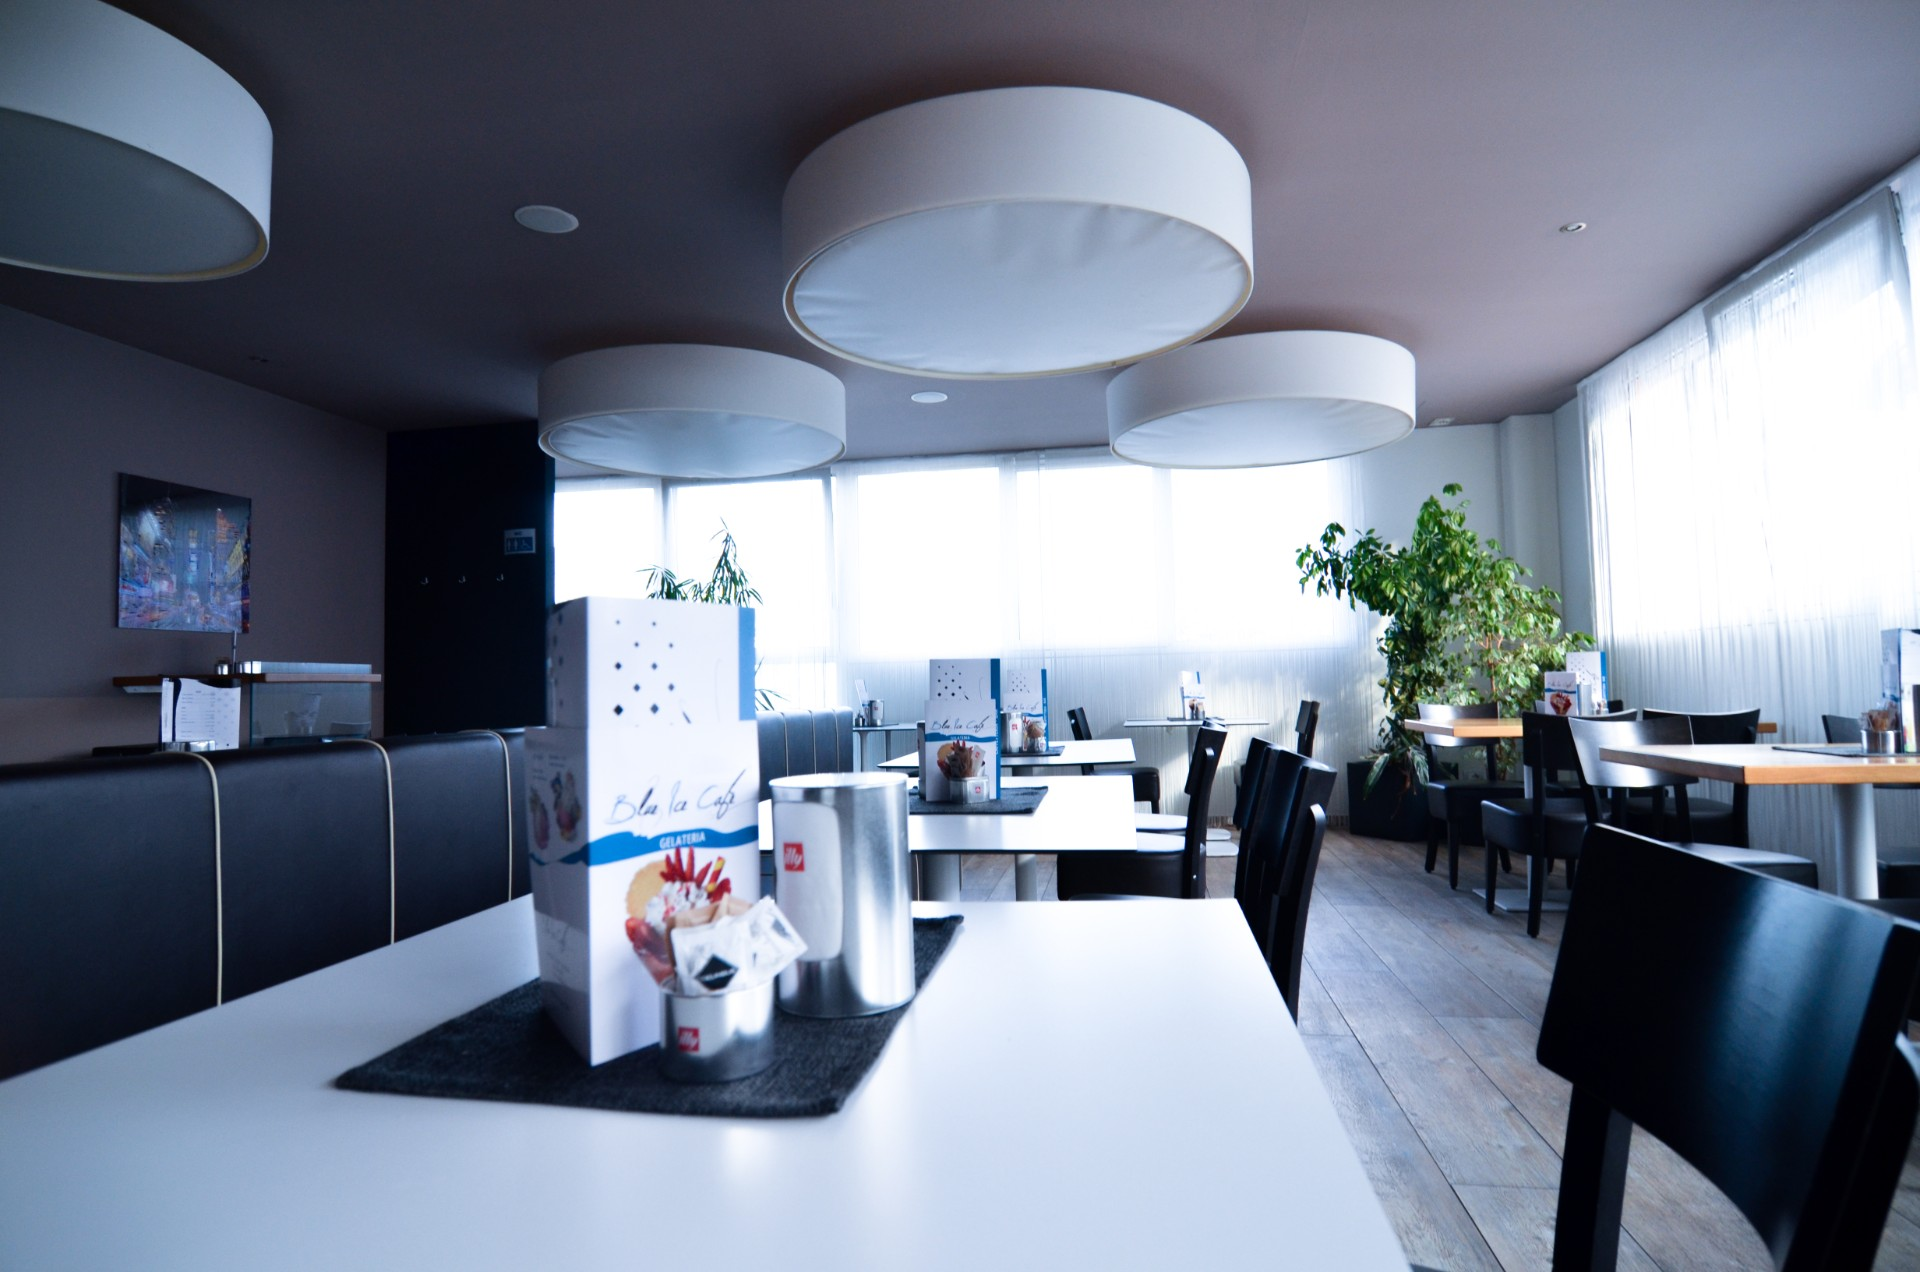
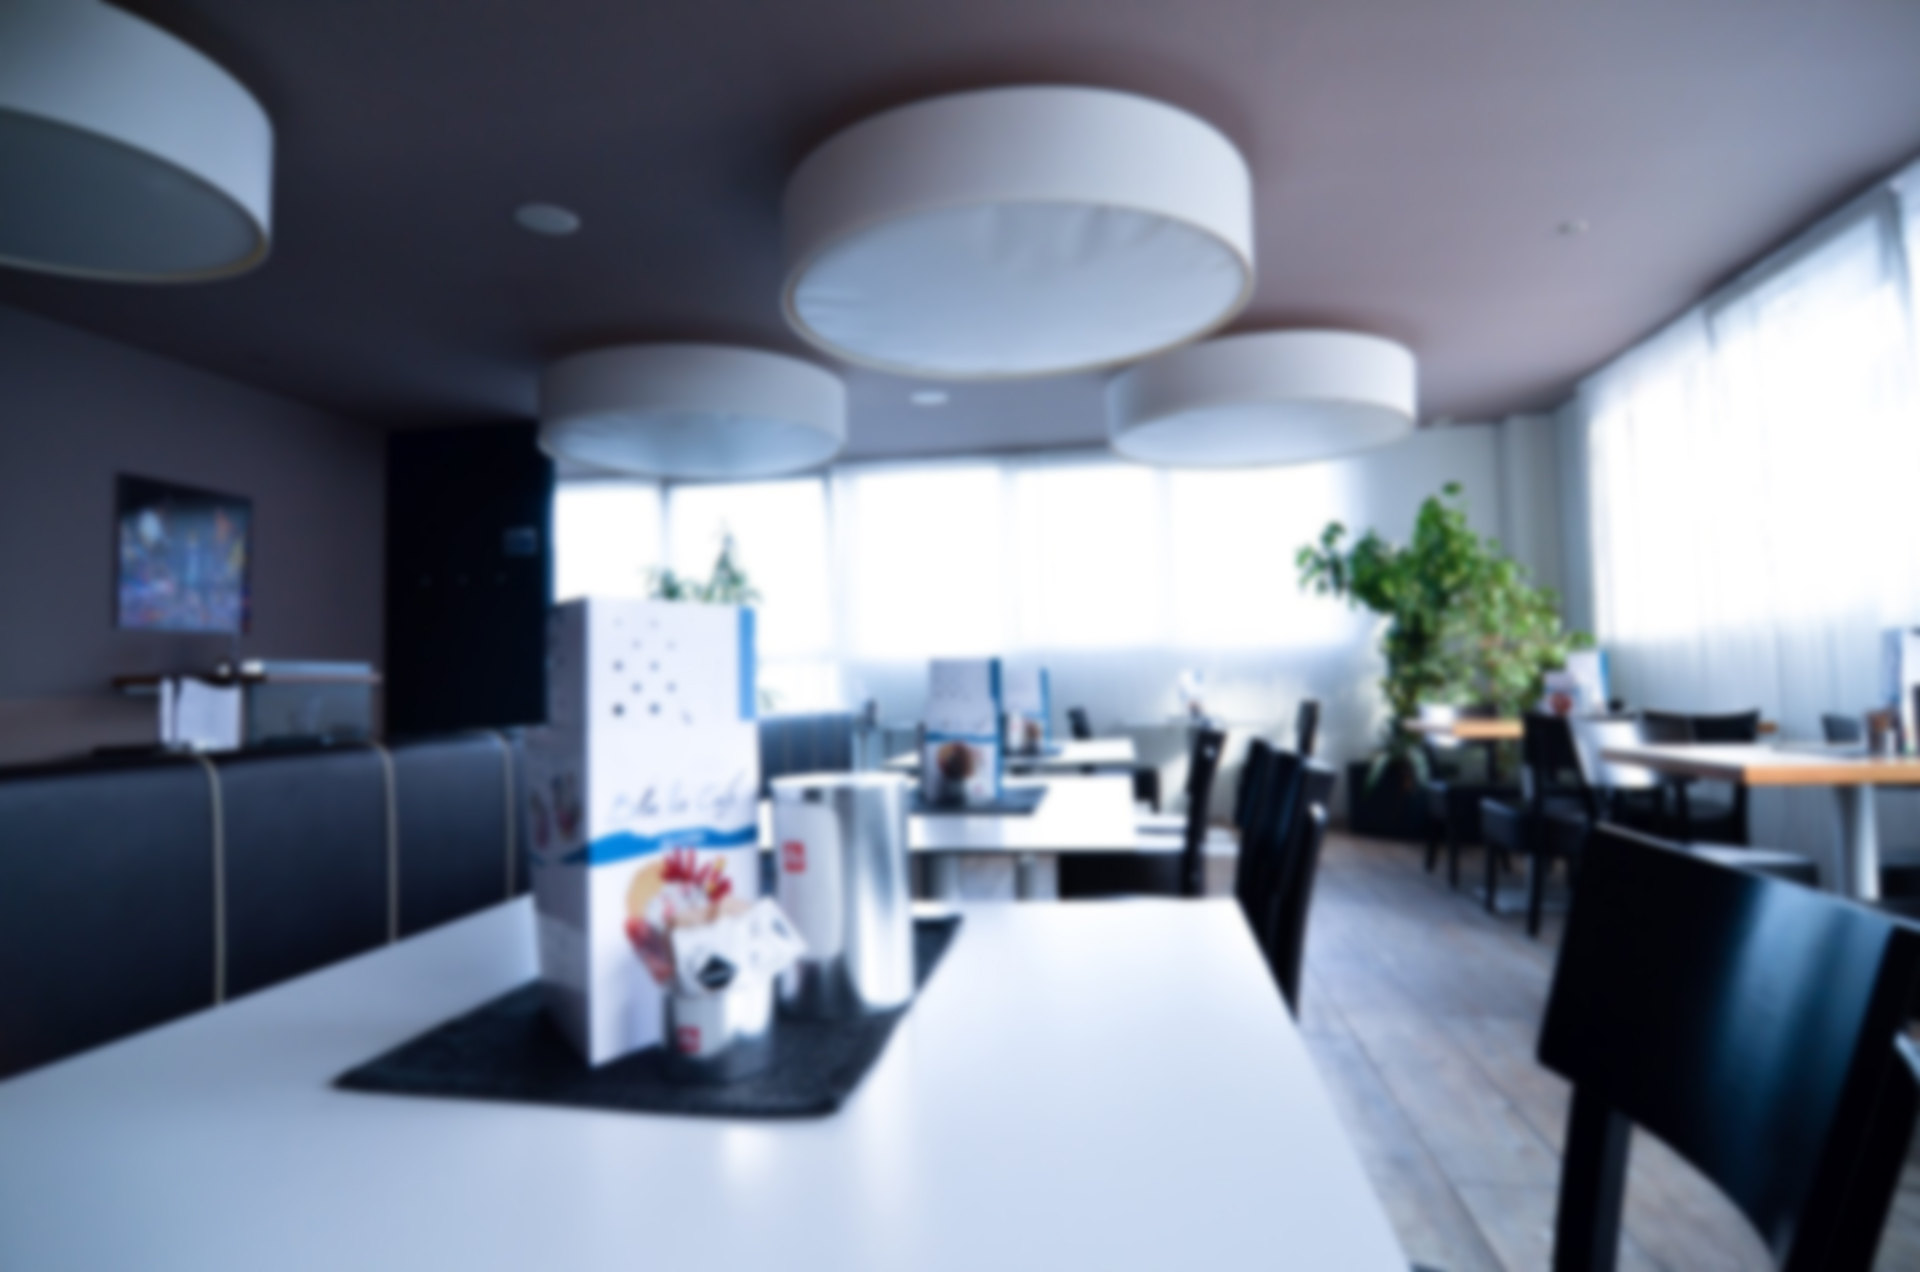
added filter to img and txt. fix about

diff --git a/src/Components/ParallaxSection/ParallaxSection.css b/src/Components/ParallaxSection/ParallaxSection.css
@@ -1,5 +1,14 @@
 
 
+@import url('https://fonts.googleapis.com/css2?family=Great+Vibes&display=swap');
+@import url('https://fonts.googleapis.com/css2?family=Kalam:wght@700&display=swap');
+
+
+.ParallaxSection { 
+    position: relative;
+    width: 100%;
+    height: 100%;
+}
 
 .container { 
     max-width: 100% ;
@@ -12,8 +21,26 @@
     background: url("../../img/ice-cafe.jpg") no-repeat center;
     background-size: cover;
     background-attachment: fixed;
-    height: 430px;
-    filter: blur(2px);
+    height: 430px; 
 }
 
- 
+ .parallax .text  {
+     position: absolute;
+     left: 50%;
+     top: 50%;
+     transform: translate(-50%,-50%);
+     text-align: center;
+    }
+    
+    .parallax .text h2{ 
+        color: rgb(255, 101, 101);
+        font-size: 7rem;
+        font-family: 'Great Vibes', cursive;
+
+    }
+    .parallax .text h3{ 
+        font-size: 4rem;
+        color: rgb(235, 203, 23);
+        font-family: 'Kalam', cursive;
+
+    } 

diff --git a/src/Components/ParallaxSection/PrallaxSection.js b/src/Components/ParallaxSection/PrallaxSection.js
@@ -7,6 +7,10 @@ function ParallaxSection() {
     <div className="ParallaxSection container">  
         
         <div className="parallax">
+          <div className="text">
+            <h2>Work</h2>
+            <h3>WITH US </h3>
+          </div>
          </div>
     </div>
   );
